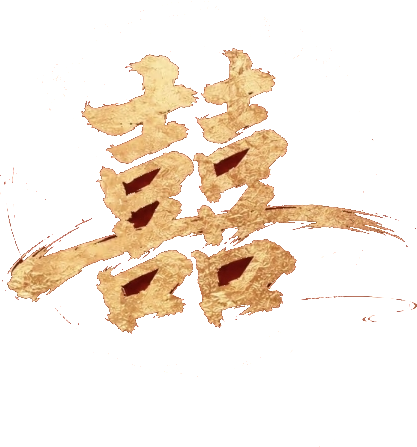
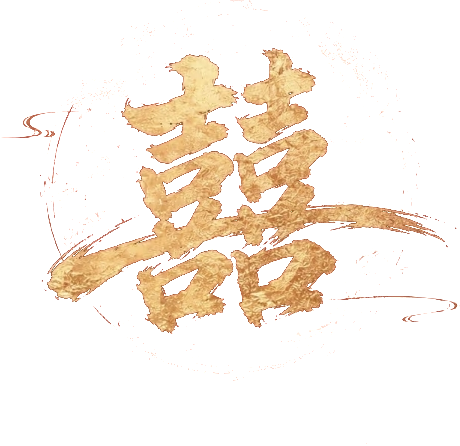
囍字镂空重抠;内页改整屏翻页结构+3D入场+角饰+圆点导航;照片按原始比例拼贴并压缩

diff --git a/index.html b/index.html
@@ -30,8 +30,8 @@
 <link rel="stylesheet" href="fonts/fonts.css">
 <!--
   ════════════════ 使 用 说 明 ════════════════
-  1. 放照片:把照片命名为「照片1.jpg」「照片2.jpg」「照片3.jpg」,
-     与本网页放在同一文件夹,刷新即可自动显示(占位框会消失)。
+  1. 放照片:把照片命名为「图片1.jpg」「图片2.jpg」「图片3.jpg」,
+     与本网页放在同一文件夹,刷新即可自动显示(占位框会消失,比例按原图)。
      照片多于三张?复制一个 .photo-slot 区块、改文件名即可。
   2. 宾客称呼:搜索「宾客称呼」四个字,改成实际称呼,如「王伯父」。
   3. 落款:搜索「张府 敬邀」,改成父亲姓名,如「张建国 暨全家 敬邀」。
@@ -57,7 +57,7 @@
   --font-body:'Noto Serif SC','STSong','SimSun',serif;
 }
 *{margin:0;padding:0;box-sizing:border-box}
-html{-webkit-text-size-adjust:100%}
+html{-webkit-text-size-adjust:100%;scroll-snap-type:y proximity}
 body{
   font-family:var(--font-body);
   background:radial-gradient(ellipse at 50% 0%,#551010,#2F0709 70%);
@@ -71,7 +71,10 @@ body.locked{overflow:hidden}
   background-image:radial-gradient(rgba(242,209,139,.055) 1px,transparent 1.6px),radial-gradient(ellipse 130% 52% at 50% -6%,rgba(235,102,80,.32),rgba(235,102,80,0) 60%),radial-gradient(155% 105% at 50% 40%,rgba(0,0,0,0) 50%,rgba(43,4,5,.45) 100%),linear-gradient(180deg,#AC1D1F 0%,#9C1B1B 36%,#8A1518 68%,#671013 100%);
   background-size:22px 22px,100% 100%,100% 100%,100% 100%;
 }
-section{padding:58px 26px;position:relative}
+section{padding:58px 26px;position:relative;min-height:100vh;min-height:100svh;display:flex;flex-direction:column;justify-content:center;scroll-snap-align:start;perspective:1200px}
+section::before,section::after{content:'';position:absolute;width:26px;height:26px;pointer-events:none;z-index:2}
+section::before{top:22px;left:22px;border-top:1.5px solid rgba(217,164,65,.55);border-left:1.5px solid rgba(217,164,65,.55)}
+section::after{bottom:22px;right:22px;border-bottom:1.5px solid rgba(217,164,65,.55);border-right:1.5px solid rgba(217,164,65,.55)}
 
 /* ── 装饰:灯笼 ─────────────────────── */
 .lantern{position:absolute;top:0;z-index:3;pointer-events:none;transform-origin:top center;animation:sway 5s ease-in-out infinite alternate}
@@ -142,12 +145,14 @@ section{padding:58px 26px;position:relative}
 .sec-title::before,.sec-title::after{content:'';width:54px;height:1px;flex:none}
 .sec-title::before{background:linear-gradient(90deg,transparent,var(--gold))}
 .sec-title::after{background:linear-gradient(270deg,transparent,var(--gold))}
-.reveal{transition:opacity .85s ease,transform .85s ease}
-.js .reveal{opacity:0;transform:translateY(26px)}
+.reveal{transition:opacity .9s ease,transform .9s cubic-bezier(.2,.7,.25,1);transform-origin:50% 0}
+.js .reveal{opacity:0;transform:rotateX(12deg) translateY(42px) scale(.985)}
 .js .reveal.in{opacity:1;transform:none}
+.js .reveal .an{opacity:0;transform:translateY(24px);transition:opacity .7s ease,transform .7s ease}
+.js .reveal.in .an{opacity:1;transform:none}
 
 /* ── 首屏 ─────────────────────────── */
-.hero{min-height:92vh;display:flex;flex-direction:column;align-items:center;justify-content:center;text-align:center;padding-top:120px}
+.hero{align-items:center;text-align:center;padding-top:120px}
 .hero-fu img{width:160px;height:auto;display:block;filter:drop-shadow(0 0 34px rgba(247,224,139,.35))}
 .hero-names{margin-top:30px;display:flex;align-items:center;gap:18px;font-family:var(--font-display);font-size:40px;color:var(--cream)}
 .hero-names .amp{width:42px;height:42px;flex:none;display:flex;align-items:center;justify-content:center;font-size:22px;color:var(--gold-bright);border:1.5px solid var(--gold);border-radius:50%;box-shadow:0 0 0 3px rgba(217,164,65,.15)}
@@ -172,16 +177,18 @@ section{padding:58px 26px;position:relative}
 .stamp:last-child{transform:rotate(3deg);margin-top:16px}
 
 /* ── 照片 ─────────────────────────── */
-.photo-grid{display:grid;grid-template-columns:1fr 1fr;gap:18px}
+.photo-grid{display:grid;grid-template-columns:1fr 1fr;gap:18px;align-items:start}
 .photo-slot{grid-column:1/-1;background:#F6EBD2;border-radius:6px;padding:10px 10px 38px;box-shadow:0 10px 26px rgba(0,0,0,.38);position:relative}
+.photo-slot::before{content:'';position:absolute;top:-9px;left:50%;transform:translateX(-50%) rotate(-2deg);width:84px;height:20px;background:linear-gradient(180deg,rgba(247,224,139,.95),rgba(217,164,65,.82));border-radius:2px;box-shadow:0 2px 6px rgba(0,0,0,.25);z-index:2}
 .photo-slot.rot-l{transform:rotate(-1.6deg)}
 .photo-slot.rot-r{transform:rotate(1.8deg)}
 .photo-slot.half{grid-column:auto}
+.photo-slot.half.rot-r{margin-top:20px}
 .ph-area{position:relative;aspect-ratio:4/3;overflow:hidden;border:2px dashed rgba(142,22,22,.4);background:rgba(142,22,22,.05)}
 .photo-slot.half .ph-area{aspect-ratio:1/1}
-.ph-area img{position:absolute;inset:0;width:100%;height:100%;object-fit:cover}
+.ph-area img{width:100%;height:auto;display:block}
 .photo-slot.has-img{border:none}
-.photo-slot.has-img .ph-area{border:none;background:none}
+.photo-slot.has-img .ph-area{border:none;background:none;aspect-ratio:auto}
 .photo-slot.has-img .ph-hint{display:none}
 .photo-slot.has-img::after{content:none}
 .ph-hint{position:absolute;inset:0;display:flex;flex-direction:column;align-items:center;justify-content:center;gap:6px;text-align:center;color:#A8524F;padding:8px}
@@ -220,6 +227,9 @@ section{padding:58px 26px;position:relative}
 /* ── 音乐按钮 ─────────────────────── */
 #music-btn{position:fixed;top:18px;right:16px;z-index:60;width:44px;height:44px;border-radius:50%;border:1px solid rgba(242,209,139,.8);background:rgba(0,0,0,.3);color:var(--gold-light);font-size:17px;cursor:pointer}
 #music-btn[hidden]{display:none}
+.dots{position:fixed;right:9px;top:50%;transform:translateY(-50%);z-index:40;display:flex;flex-direction:column;gap:12px}
+.dots button{width:9px;height:9px;border-radius:50%;border:1px solid rgba(242,209,139,.9);background:transparent;opacity:.55;cursor:pointer;padding:0}
+.dots button.on{background:var(--gold);opacity:1;box-shadow:0 0 10px rgba(247,224,139,.65)}
 
 /* ══════════════════════════════════════════════════════════════
    动效增强 —— 全部纯 CSS,只用 transform / opacity(合成层动画,不触发重排),
@@ -317,15 +327,18 @@ html.js body:not(.locked) .scroll-cue{animation:heroIn .95s 1.1s cubic-bezier(.2
 @media (prefers-reduced-motion:reduce){
   *,*::before,*::after{animation:none!important;transition:none!important}
   .js .reveal{opacity:1;transform:none}
+  .js .reveal .an{opacity:1;transform:none}
+  html{scroll-snap-type:none}
 }
 @media print{
-  #cover,#music-btn,.scroll-cue,.spark{display:none!important}
+  #cover,#music-btn,.scroll-cue,.spark,.dots{display:none!important}
   body{background:#fff}
   body.locked{overflow:auto}
   .page{max-width:100%;box-shadow:none}
   .js .reveal{opacity:1;transform:none}
-  .hero{min-height:auto;padding:60px 26px}
-  section{page-break-inside:avoid}
+  .js .reveal .an{opacity:1;transform:none}
+  section{min-height:auto;page-break-inside:avoid}
+  .hero{padding:60px 26px}
 }
 </style>
 <noscript><style>.reveal{opacity:1;transform:none}#cover{display:none}body.locked{overflow:auto}</style></noscript>
@@ -369,22 +382,22 @@ html.js body:not(.locked) .scroll-cue{animation:heroIn .95s 1.1s cubic-bezier(.2
 <main class="page">
 
   <!-- ════════ 首屏 ════════ -->
-  <section class="hero">
+  <section class="hero" id="hero">
     <div class="lantern h-l small"><i class="string"></i><i class="cap"></i><i class="body"><i class="rib"></i></i><i class="cap"></i><i class="tassel"></i></div>
     <div class="lantern h-r small"><i class="string"></i><i class="cap"></i><i class="body"><i class="rib"></i></i><i class="cap"></i><i class="tassel"></i></div>
     <svg class="cloud tl"><use href="#xiangyun"/></svg>
     <svg class="cloud br"><use href="#xiangyun"/></svg>
-    <div class="hero-fu"><img src="xi.png" alt="囍"></div>
-    <div class="hero-names"><span>张令仪</span><span class="amp"><img src="xi.png" alt="囍"></span><span>周煜全</span></div>
-    <div class="hero-sub">于归之喜</div>
-    <div class="hero-date">2027 · 01 · 26</div>
-    <div class="scroll-cue"><i></i>上滑查看喜帖</div>
+    <div class="hero-fu an" style="transition-delay:.05s"><img src="xi.png" alt="囍"></div>
+    <div class="hero-names an" style="transition-delay:.18s"><span>张令仪</span><span class="amp"><img src="xi.png" alt="囍"></span><span>周煜全</span></div>
+    <div class="hero-sub an" style="transition-delay:.3s">于归之喜</div>
+    <div class="hero-date an" style="transition-delay:.38s">2027 · 01 · 26</div>
+    <div class="scroll-cue an" style="transition-delay:.5s"><i></i>上滑查看喜帖</div>
   </section>
 
   <!-- ════════ 喜帖正文(竖排,从右往左读)════════ -->
-  <section class="invite reveal">
+  <section class="invite reveal" id="invite">
     <h2 class="sec-title">喜帖</h2>
-    <div class="frame">
+    <div class="frame an" style="transition-delay:.18s">
       <div class="vscroll">
         <!-- 「宾客称呼」改成实际称呼,如:王伯父 / 李阿姨 / 各位亲友 -->
         <p class="guest">送呈〔宾客称呼〕台启</p>
@@ -404,38 +417,38 @@ html.js body:not(.locked) .scroll-cue{animation:heroIn .95s 1.1s cubic-bezier(.2
   </section>
 
   <!-- ════════ 照片 ════════ -->
-  <section class="photos reveal">
+  <section class="photos reveal" id="photos">
     <h2 class="sec-title">幸福留影</h2>
-    <div class="photo-grid">
+    <div class="photo-grid an" style="transition-delay:.18s">
       <div class="photo-slot">
         <div class="ph-area">
-          <img src="照片1.jpg" alt="照片一" onload="this.closest('.photo-slot').classList.add('has-img')" onerror="this.remove()">
+          <img src="图片1.jpg" alt="照片一" onload="this.closest('.photo-slot').classList.add('has-img')" onerror="this.remove()">
           <div class="ph-hint">
             <span class="ico">📷</span>
             <b>照片一</b>
-            <small>将照片命名为「照片1.jpg」<br>与本网页放同一文件夹<br>即可自动显示</small>
+            <small>将照片命名为「图片1.jpg」<br>与本网页放同一文件夹<br>即可自动显示</small>
           </div>
         </div>
         <div class="ph-cap"><img src="xi.png" alt="囍" class="fu-inline"> · 记录我们的故事</div>
       </div>
       <div class="photo-slot half rot-l">
         <div class="ph-area">
-          <img src="照片2.jpg" alt="照片二" onload="this.closest('.photo-slot').classList.add('has-img')" onerror="this.remove()">
+          <img src="图片2.jpg" alt="照片二" onload="this.closest('.photo-slot').classList.add('has-img')" onerror="this.remove()">
           <div class="ph-hint">
             <span class="ico">📷</span>
             <b>照片二</b>
-            <small>照片2.jpg</small>
+            <small>图片2.jpg</small>
           </div>
         </div>
         <div class="ph-cap">初 见</div>
       </div>
       <div class="photo-slot half rot-r">
         <div class="ph-area">
-          <img src="照片3.jpg" alt="照片三" onload="this.closest('.photo-slot').classList.add('has-img')" onerror="this.remove()">
+          <img src="图片3.jpg" alt="照片三" onload="this.closest('.photo-slot').classList.add('has-img')" onerror="this.remove()">
           <div class="ph-hint">
             <span class="ico">📷</span>
             <b>照片三</b>
-            <small>照片3.jpg</small>
+            <small>图片3.jpg</small>
           </div>
         </div>
         <div class="ph-cap">相 守</div>
@@ -444,14 +457,14 @@ html.js body:not(.locked) .scroll-cue{animation:heroIn .95s 1.1s cubic-bezier(.2
   </section>
 
   <!-- ════════ 婚礼信息 ════════ -->
-  <section class="info reveal">
-    <h2 class="sec-title">婚礼信息</h2>
-    <div class="countdown">距 婚 礼 还 有<b id="cd">—</b>天</div>
-    <div class="cal">
+  <section class="info reveal" id="info">
+    <h2 class="sec-title an">婚礼信息</h2>
+    <div class="countdown an" style="transition-delay:.12s">距 婚 礼 还 有<b id="cd">—</b>天</div>
+    <div class="cal an" style="transition-delay:.22s">
       <div class="cal-title">公元二〇二七年 · 一月</div>
       <div id="cal-grid"></div>
     </div>
-    <div class="info-list">
+    <div class="info-list an" style="transition-delay:.32s">
       <div class="info-row"><span class="k">婚期</span><span class="v hl">2027年1月26日</span></div>
       <div class="info-row"><span class="k">星期</span><span class="v">星期二</span></div>
       <div class="info-row"><span class="k">农历</span><span class="v">丙午年腊月十九</span></div>
@@ -460,23 +473,31 @@ html.js body:not(.locked) .scroll-cue{animation:heroIn .95s 1.1s cubic-bezier(.2
       <div class="info-row"><span class="k">席设</span><span class="v hl">思元鲜肉坊</span></div>
       <div class="info-row"><span class="k">地址</span><span class="v">湖南省常德市桃源县沙坪镇</span></div>
     </div>
-    <div class="nav-btns">
+    <div class="nav-btns an" style="transition-delay:.42s">
       <a class="btn-nav" href="https://uri.amap.com/search?keyword=常德市桃源县沙坪镇思元鲜肉坊" target="_blank" rel="noopener">高德导航</a>
       <a class="btn-nav" href="https://map.baidu.com/search/常德市桃源县沙坪镇思元鲜肉坊" target="_blank" rel="noopener">百度地图</a>
     </div>
   </section>
 
   <!-- ════════ 落款 ════════ -->
-  <section class="footer reveal">
+  <section class="footer reveal" id="footer">
     <svg class="cloud tl"><use href="#xiangyun"/></svg>
-    <div class="footer-fu"><img src="xi.png" alt="囍"></div>
+    <div class="footer-fu an"><img src="xi.png" alt="囍"></div>
     <!-- 落款:建议改成父亲姓名,如「张建国 暨全家 敬邀」 -->
-    <p class="sign-name">张府 敬邀</p>
-    <p class="sign-sub">恭候台驾 · 阖府光临</p>
-    <p class="foot-date">二〇二七年一月二十六日 · 湖南省常德市桃源县沙坪镇思元鲜肉坊</p>
+    <p class="sign-name an" style="transition-delay:.15s">张府 敬邀</p>
+    <p class="sign-sub an" style="transition-delay:.3s">恭候台驾 · 阖府光临</p>
+    <p class="foot-date an" style="transition-delay:.45s">二〇二七年一月二十六日 · 湖南省常德市桃源县沙坪镇思元鲜肉坊</p>
   </section>
 
 </main>
+
+<nav class="dots" aria-label="页面导航">
+  <button type="button" data-t="hero" aria-label="封面"></button>
+  <button type="button" data-t="invite" aria-label="喜帖"></button>
+  <button type="button" data-t="photos" aria-label="幸福留影"></button>
+  <button type="button" data-t="info" aria-label="婚礼信息"></button>
+  <button type="button" data-t="footer" aria-label="落款"></button>
+</nav>
 
 <script>
 document.documentElement.classList.add('js');
@@ -490,11 +511,12 @@ function openInvite(){
   cover.classList.add('open');
   document.body.classList.remove('locked');
   tryPlayBgm();
+  setTimeout(()=>{ document.getElementById('hero').classList.add('in'); }, 250);
 }
 cover.addEventListener('click', openInvite);
 
-/* 滚动渐显 */
-const targets = document.querySelectorAll('.reveal');
+/* 滚动渐显(首屏由封面开启动作触发) */
+const targets = document.querySelectorAll('.reveal:not(#hero)');
 if ('IntersectionObserver' in window){
   const io = new IntersectionObserver(es=>{
     es.forEach(e=>{ if(e.isIntersecting){ e.target.classList.add('in'); io.unobserve(e.target); } });
@@ -540,6 +562,22 @@ mbtn.addEventListener('click', e=>{
   e.stopPropagation();
   if (bgm.paused){ userPaused = false; bgm.play(); mbtn.textContent = '❚❚'; }
   else { userPaused = true; bgm.pause(); mbtn.textContent = '♪'; }
+});
+
+/* 翻页导航圆点 */
+const dotBtns = Array.from(document.querySelectorAll('.dots button'));
+dotBtns.forEach(b => b.addEventListener('click', () => {
+  const el = document.getElementById(b.dataset.t);
+  if (el) el.scrollIntoView({behavior:'smooth'});
+}));
+const secIO = new IntersectionObserver(es => {
+  es.forEach(e => {
+    if (e.isIntersecting) dotBtns.forEach(b => b.classList.toggle('on', b.dataset.t === e.target.id));
+  });
+}, {rootMargin:'-45% 0px -45% 0px'});
+['hero','invite','photos','info','footer'].forEach(id => {
+  const el = document.getElementById(id);
+  if (el) secIO.observe(el);
 });
 </script>
 </body>

diff --git a/README.md b/README.md
@@ -16,7 +16,7 @@
 | `fonts/` | 自托管字体子集,由 `tools/_build_fonts.py` 生成,不要手改 |
 | `tools/` | 字体裁剪 / 移动端检查脚本(不参与部署) |
 
-照片约定:命名为 `照片1.jpg` / `照片2.jpg` / `照片3.jpg` 放在本目录即可自动显示。
+照片约定:命名为 `图片1.jpg` / `图片2.jpg` / `图片3.jpg` 放在本目录即可自动显示。
 
 ## 修改流程
 
